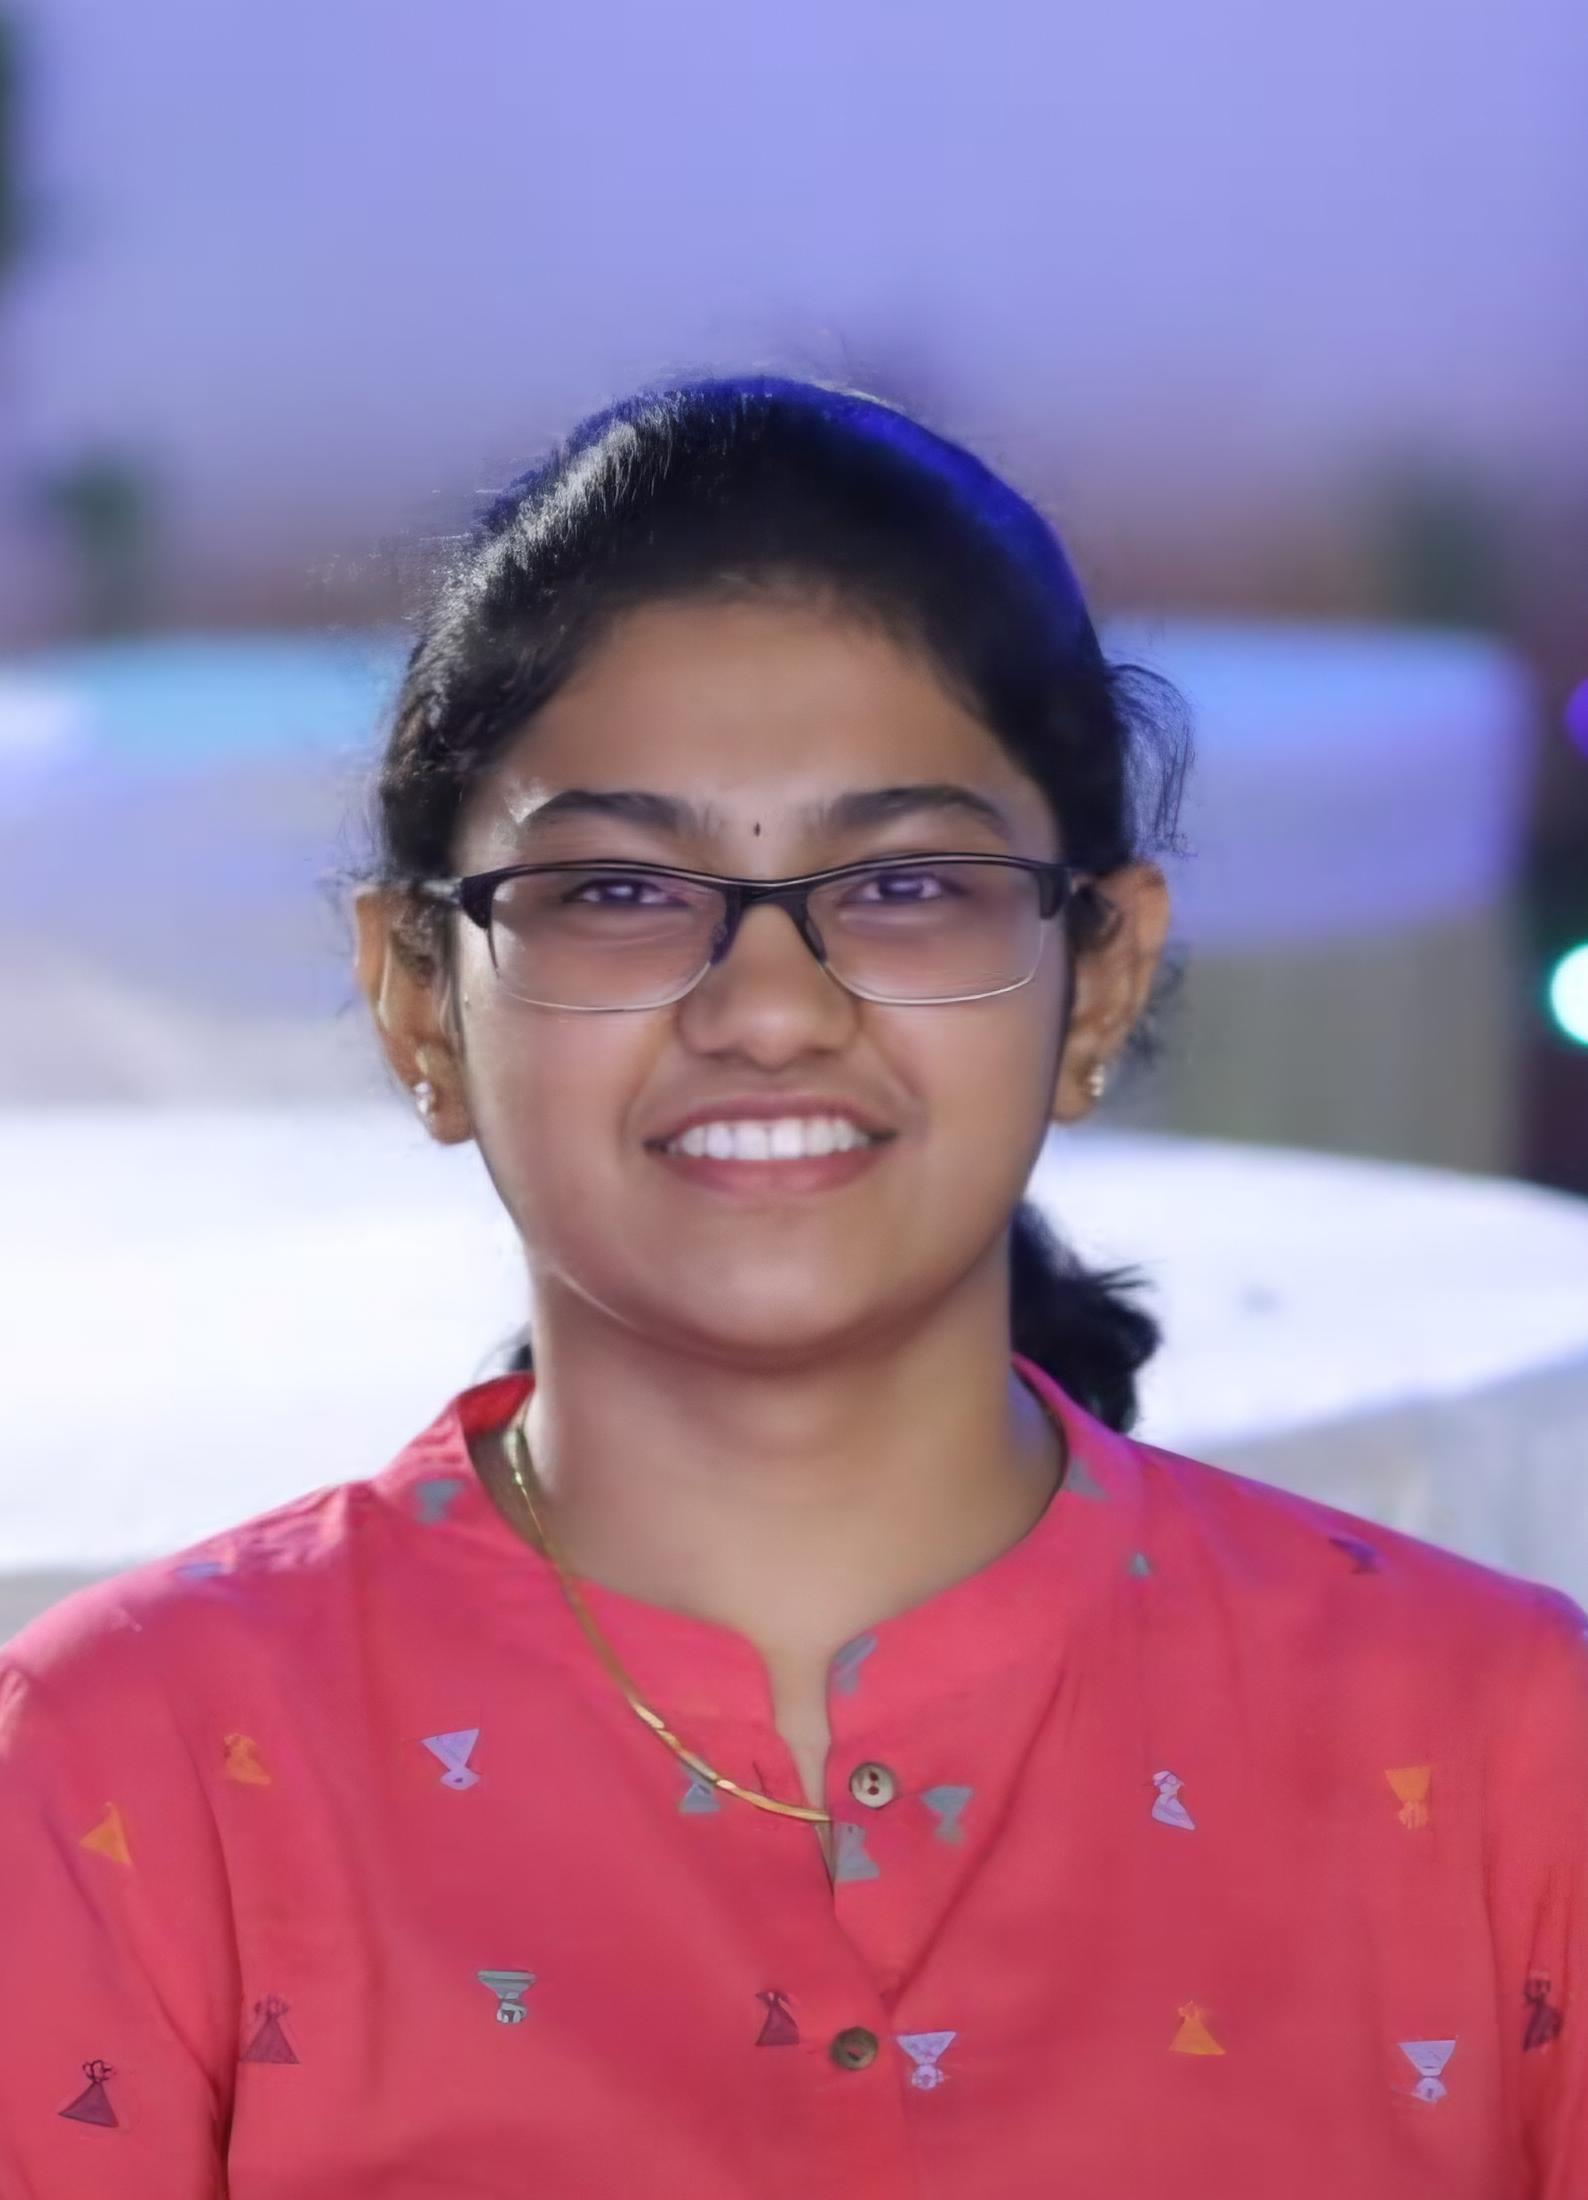
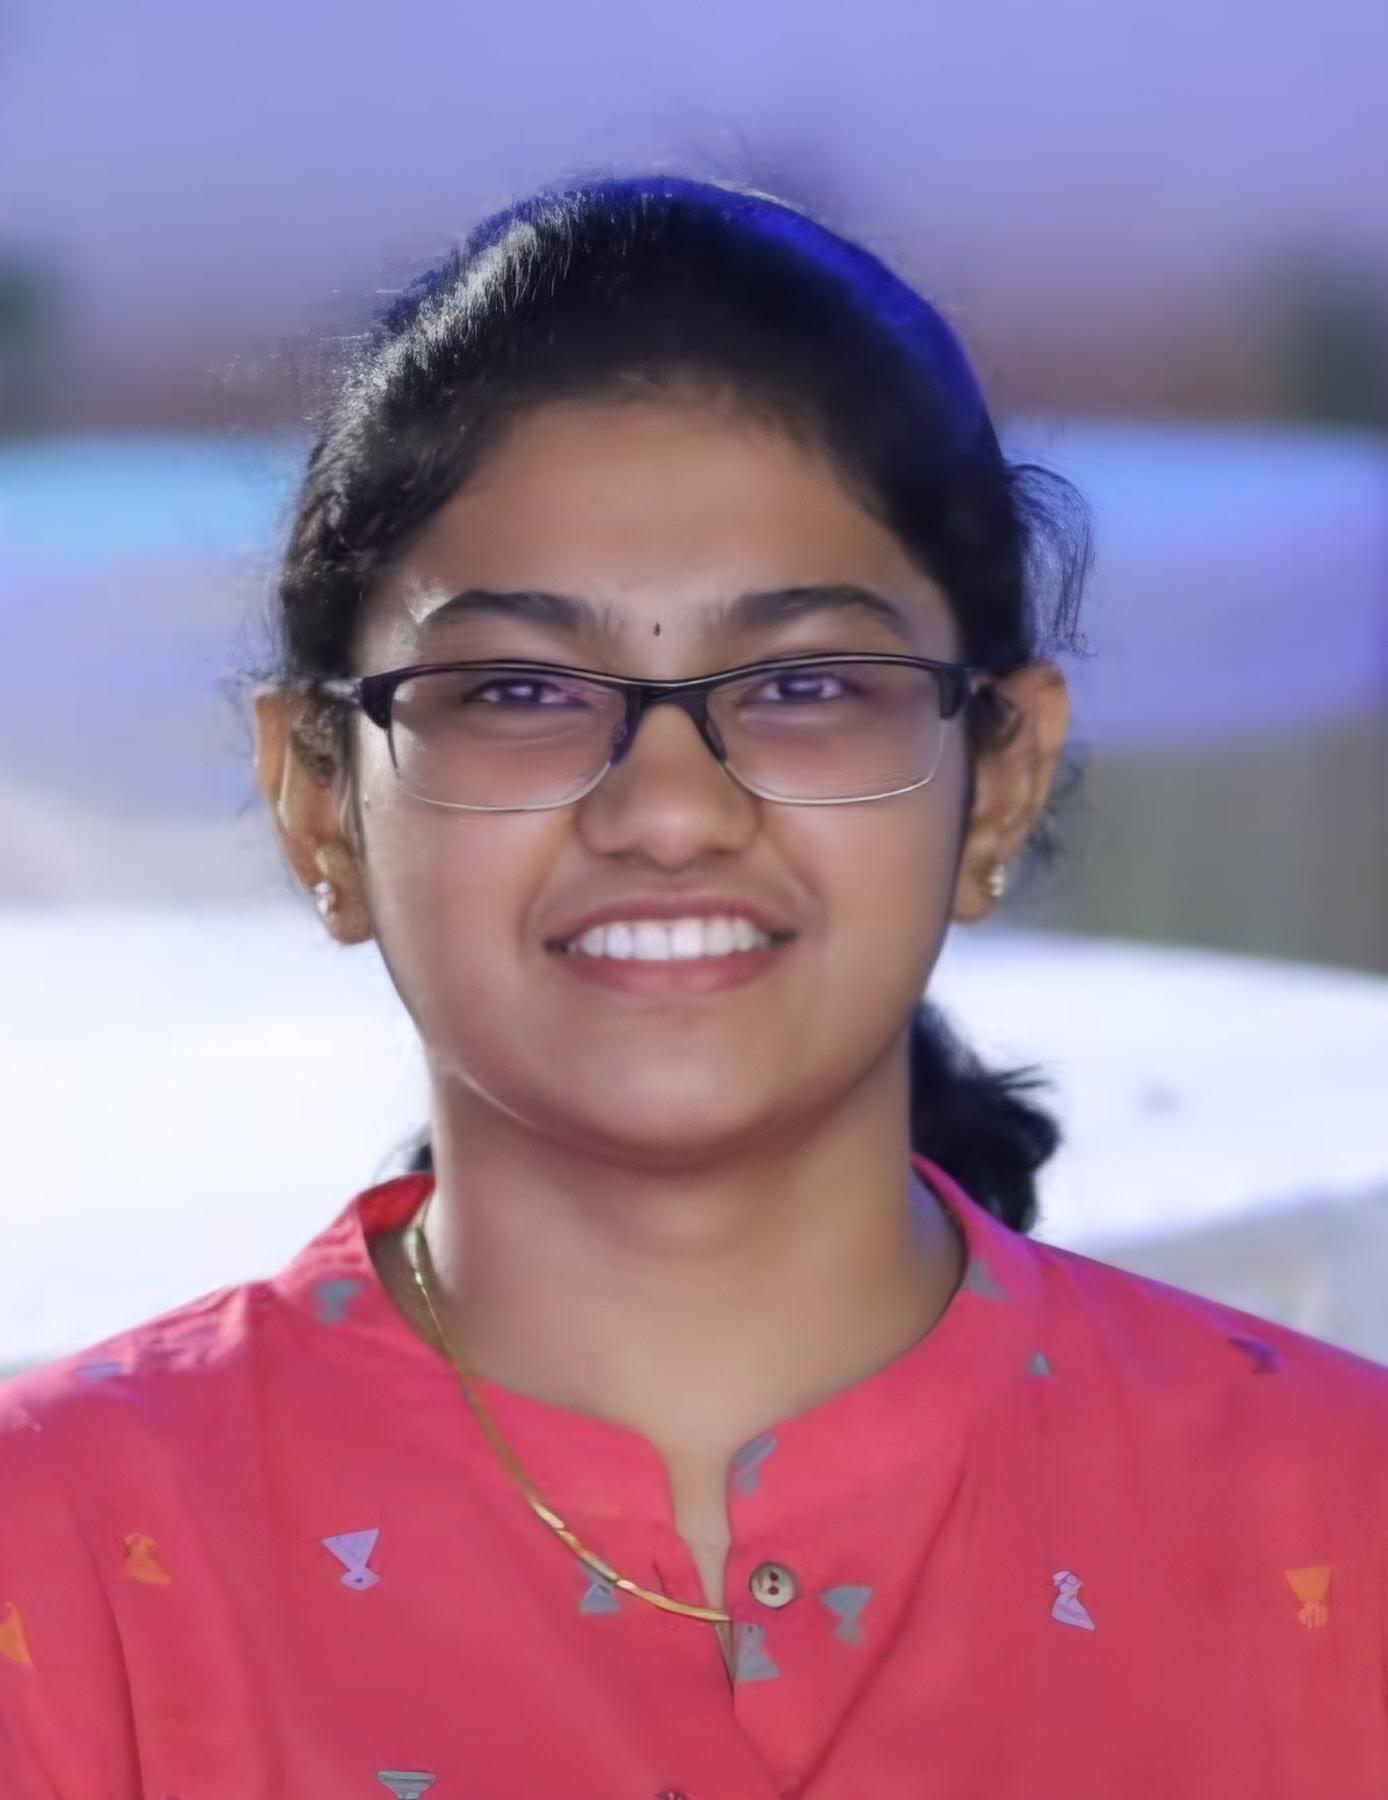
feat: complete SEO optimization and finalize all committee member image assets

diff --git a/index.html b/index.html
@@ -4,13 +4,53 @@
 <head>
   <meta charset="UTF-8">
   <meta name="viewport" content="width=device-width, initial-scale=1.0, maximum-scale=1.0, user-scalable=no">
-  <title>CSEUTSAV 2K26 | PSNA CET</title>
+  <title>CSEUTSAV 2K26 - PSNA CSE Symposium</title>
+  <meta name="description" content="CSEUTSAV 2K26 is the official CSE symposium of PSNA College. Explore events, register, and participate in technical and non-technical competitions.">
+  <meta name="keywords" content="CSEUTSAV, PSNA Symposium, CSE Events, UTSAV 2K26, College Symposium">
+  <meta name="author" content="PSNA CSE">
+
+  <!-- Open Graph -->
+  <meta property="og:title" content="CSEUTSAV 2K26">
+  <meta property="og:description" content="Official PSNA CSE Symposium Website">
+  <meta property="og:type" content="website">
+
   <script src="https://unpkg.com/html5-qrcode"></script>
   <link rel="preconnect" href="https://fonts.googleapis.com">
   <link
     href="https://fonts.googleapis.com/css2?family=Barlow+Condensed:wght@400;500;600;700;800;900&family=Barlow:wght@300;400;500;600;700&display=swap"
     rel="stylesheet">
   <script src="https://cdnjs.cloudflare.com/ajax/libs/qrcodejs/1.0.0/qrcode.min.js"></script>
+
+  <!-- Structured Data -->
+  <script type="application/ld+json">
+    {
+      "@context": "https://schema.org",
+      "@type": "Event",
+      "name": "CSEUTSAV 2K26",
+      "startDate": "2026-04-13",
+      "endDate": "2026-04-18",
+      "eventStatus": "https://schema.org/EventScheduled",
+      "eventAttendanceMode": "https://schema.org/OfflineEventAttendanceMode",
+      "location": {
+        "@type": "Place",
+        "name": "PSNA College of Engineering and Technology",
+        "address": {
+          "@type": "PostalAddress",
+          "streetAddress": "Kothandaraman Nagar",
+          "addressLocality": "Dindigul",
+          "postalCode": "624622",
+          "addressRegion": "TN",
+          "addressCountry": "IN"
+        }
+      },
+      "description": "The official CSE symposium of PSNA College featuring technical and non-technical events.",
+      "organizer": {
+        "@type": "Organization",
+        "name": "PSNA CSE",
+        "url": "https://utsav2k26.netlify.app"
+      }
+    }
+  </script>
   <style>
     *,
     *::before,
@@ -4461,9 +4501,9 @@
     <canvas id="intro-canvas"></canvas>
 
     <div class="intro-text">
-      <h1 class="thunder-line" id="t-line-1">CSE<span>UTSAV</span></h1>
+      <h1 class="thunder-line" id="t-line-1" aria-label="CSEUTSAV 2K26">CSE<span>UTSAV</span></h1>
       <h1 class="thunder-line" id="t-line-2" style="font-size:36px; margin-top:-10px;">2K26 BEGINS</h1>
-      <div class="intro-sub thunder-line" id="t-line-3" style="margin-top:10px;">PSNA CSE · Dindigul</div>
+      <div class="intro-sub thunder-line" id="t-line-3" style="margin-top:10px;">PSNA CSE Symposium · Dindigul</div>
     </div>
   </div>
 
@@ -4682,10 +4722,9 @@
 
   <!-- FOOTER -->
   <footer class="footer">
-    <div class="fl-logo">CSEUT<span>SAV</span></div>
-    <div class="fl-info">PSNA College of Engineering & Technology<br>Department of Computer Science &
-      Engineering<br>Dindigul, Tamil Nadu — 624 622</div>
-    <div class="fl-copy">© 2026 CSEUTSAV · PSNA CSE · All Rights Reserved</div>
+    <div class="fl-logo">CSEUT<span>SAV</span> 2K26</div>
+    <div class="fl-info">PSNA College of Engineering & Technology<br>PSNA CSE Symposium · Dept of CSE<br>Dindigul, Tamil Nadu — 624 622</div>
+    <div class="fl-copy">© 2026 CSEUTSAV 2K26 · PSNA CSE SYMPOSIUM · All Rights Reserved</div>
   </footer>
 
   <!-- EVENT DETAIL MODAL -->
@@ -5437,22 +5476,22 @@
     /* ════════ CONTACTS ════════ */
     const COMMITTEE = [
       /* ── TOP LEADERSHIP ── */
-      { isHead: true, name: 'Pranaav', role: 'Head Coordinator', dept: 'Hackverse', img: 'https://ui-avatars.com/api/?name=Pranaav&background=2ecc71&color=fff&size=128', phone: '+919361131042', linkedin: '#' },
-      { isHead: true, name: 'Aravind', role: 'Head Coordinator', dept: 'Symposium Lead', img: 'https://ui-avatars.com/api/?name=Aravind&background=2ecc71&color=fff&size=128', phone: '+910000000000', linkedin: '#' },
-      { isHead: true, name: 'Lekeetha Sri', role: 'Head Coordinator', dept: 'Design Decode', img: 'assets/committee/lekeetha_cropped.jpg', phone: '+919361131042', linkedin: '#' },
-      { isHead: false, name: 'Arjhun O', role: 'Joint President', dept: '', img: 'https://ui-avatars.com/api/?name=Arjhun+O&background=e8541a&color=fff&size=128', phone: '+910000000000', linkedin: '#' },
-      { isHead: false, name: 'Naga Nandhini', role: 'Joint Secretary', dept: '', img: 'https://ui-avatars.com/api/?name=Naga+Nandhini&background=e8541a&color=fff&size=128', phone: '+910000000000', linkedin: '#' },
+      { isHead: true, name: 'Pranaav', role: 'President', dept: 'Hackverse', img: 'https://ui-avatars.com/api/?name=Pranaav&background=2ecc71&color=fff&size=128', phone: '+919361131042', linkedin: '#' },
+      { isHead: true, name: 'Aravind', role: 'Treasurer', dept: 'Symposium Lead', img: 'https://ui-avatars.com/api/?name=Aravind&background=2ecc71&color=fff&size=128', phone: '+910000000000', linkedin: '#' },
+      { isHead: true, name: 'Lekeetha Sri', role: 'Secretary', dept: 'Design Decode', img: 'assets/committee/lekeetha_cropped.jpg', phone: '+919361131042', linkedin: '#' },
+      { isHead: false, name: 'Arjhun O', role: 'Joint President', dept: '', img: 'assets/committee/arjun_cropped.jpg', phone: '+910000000000', linkedin: '#' },
+      { isHead: false, name: 'Naga Nandhini', role: 'Joint Secretary', dept: '', img: 'assets/committee/naga_nandhini_cropped.jpg', phone: '+910000000000', linkedin: '#' },
       { isHead: false, name: 'Hrithik', role: 'Joint Treasurer', dept: '', img: 'assets/committee/hrithik_cropped.jpg', phone: '+910000000000', linkedin: '#' },
       { isHead: false, name: 'Sriram S', role: 'Web Admin & Joint Coordinator', dept: '', img: 'assets/committee/sriram_cropped.jpg', phone: '+919361123688', linkedin: '#' },
 
       /* ── HEAD COORDINATORS (4th Years) ── */
       { isHead: true, name: 'Syedali Fathima', role: 'Head Coordinator', dept: 'Brand to Billion', img: 'https://ui-avatars.com/api/?name=Syedali+Fathima&background=2ecc71&color=fff&size=128', phone: '+910000000000', linkedin: '#' },
-      { isHead: true, name: 'Arikara Sudhan', role: 'Head Coordinator', dept: 'Uno Reverse', img: 'https://ui-avatars.com/api/?name=Arikara+Sudhan&background=2ecc71&color=fff&size=128', phone: '+910000000000', linkedin: '#' },
+      { isHead: true, name: 'Arikara Sudhan', role: 'Head Coordinator', dept: 'Uno Reverse', img: 'assets/committee/arikara_cropped.jpg', phone: '+910000000000', linkedin: '#' },
       { isHead: true, name: 'Hariharan', role: 'Head Coordinator', dept: 'TechnoTrace', img: 'https://ui-avatars.com/api/?name=Hariharan&background=2ecc71&color=fff&size=128', phone: '+910000000000', linkedin: '#' },
-      { isHead: true, name: 'Kalaiselvi', role: 'Head Coordinator', dept: 'Checkmate Coders', img: 'https://ui-avatars.com/api/?name=Kalaiselvi&background=2ecc71&color=fff&size=128', phone: '+910000000000', linkedin: '#' },
+      { isHead: true, name: 'Kalaiselvi', role: 'Head Coordinator', dept: 'Checkmate Coders', img: 'assets/committee/kalaiselvi_cropped.jpg', phone: '+910000000000', linkedin: '#' },
       { isHead: true, name: 'Reshmaa', role: 'Head Coordinator', dept: 'Zero Code Zone', img: 'assets/committee/reshmaa_cropped.jpg', phone: '+910000000000', linkedin: '#' },
       { isHead: true, name: 'Sriram Adithya', role: 'Head Coordinator', dept: 'Franchise Fiesta', img: 'https://ui-avatars.com/api/?name=Sriram+Adithya&background=2ecc71&color=fff&size=128', phone: '+910000000000', linkedin: '#' },
-      { isHead: true, name: 'Priyanka M', role: 'Head Coordinator', dept: 'Algorithmic Platter', img: 'https://ui-avatars.com/api/?name=Priyanka+M&background=2ecc71&color=fff&size=128', phone: '+910000000000', linkedin: '#' },
+      { isHead: true, name: 'Priyanka M', role: 'Head Coordinator', dept: 'Algorithmic Platter', img: 'assets/committee/priyanka_cropped.jpg', phone: '+910000000000', linkedin: '#' },
       { isHead: true, name: 'Jai Sri', role: 'Head Coordinator', dept: 'Clash of Minds', img: 'https://ui-avatars.com/api/?name=Jai+Sri&background=2ecc71&color=fff&size=128', phone: '+910000000000', linkedin: '#' },
 
       /* ── JOINT COORDINATORS (3rd Years) ── */
@@ -5479,7 +5518,7 @@
       
       /* ── MULTIMEDIA TEAM ── */
       { isHead: false, name: 'Naveen Sakthi', role: 'Multimedia Team', dept: '', img: 'assets/committee/naveen.jpg', phone: '+910000000000', linkedin: '#' },
-      { isHead: false, name: 'Nithish Priyan', role: 'Multimedia Team', dept: '', img: 'https://ui-avatars.com/api/?name=Nithish+Priyan&background=e8541a&color=fff&size=128', phone: '+910000000000', linkedin: '#' },
+      { isHead: false, name: 'Nithish Priyan', role: 'Multimedia Team', dept: '', img: 'assets/committee/nithish_priyan_cropped.jpg', phone: '+910000000000', linkedin: '#' },
       { isHead: false, name: 'Paxton', role: 'Multimedia Team', dept: '', img: 'https://ui-avatars.com/api/?name=Paxton&background=e8541a&color=fff&size=128', phone: '+910000000000', linkedin: '#' },
       { isHead: false, name: 'Jai Sankar', role: 'Multimedia Team', dept: '', img: 'assets/committee/jaisankar_cropped.jpg', phone: '+910000000000', linkedin: '#' },
       { isHead: false, name: 'Kalimuthu', role: 'Multimedia Team', dept: '', img: 'assets/committee/kalimuthu_cropped.jpg', phone: '+910000000000', linkedin: '#' },
